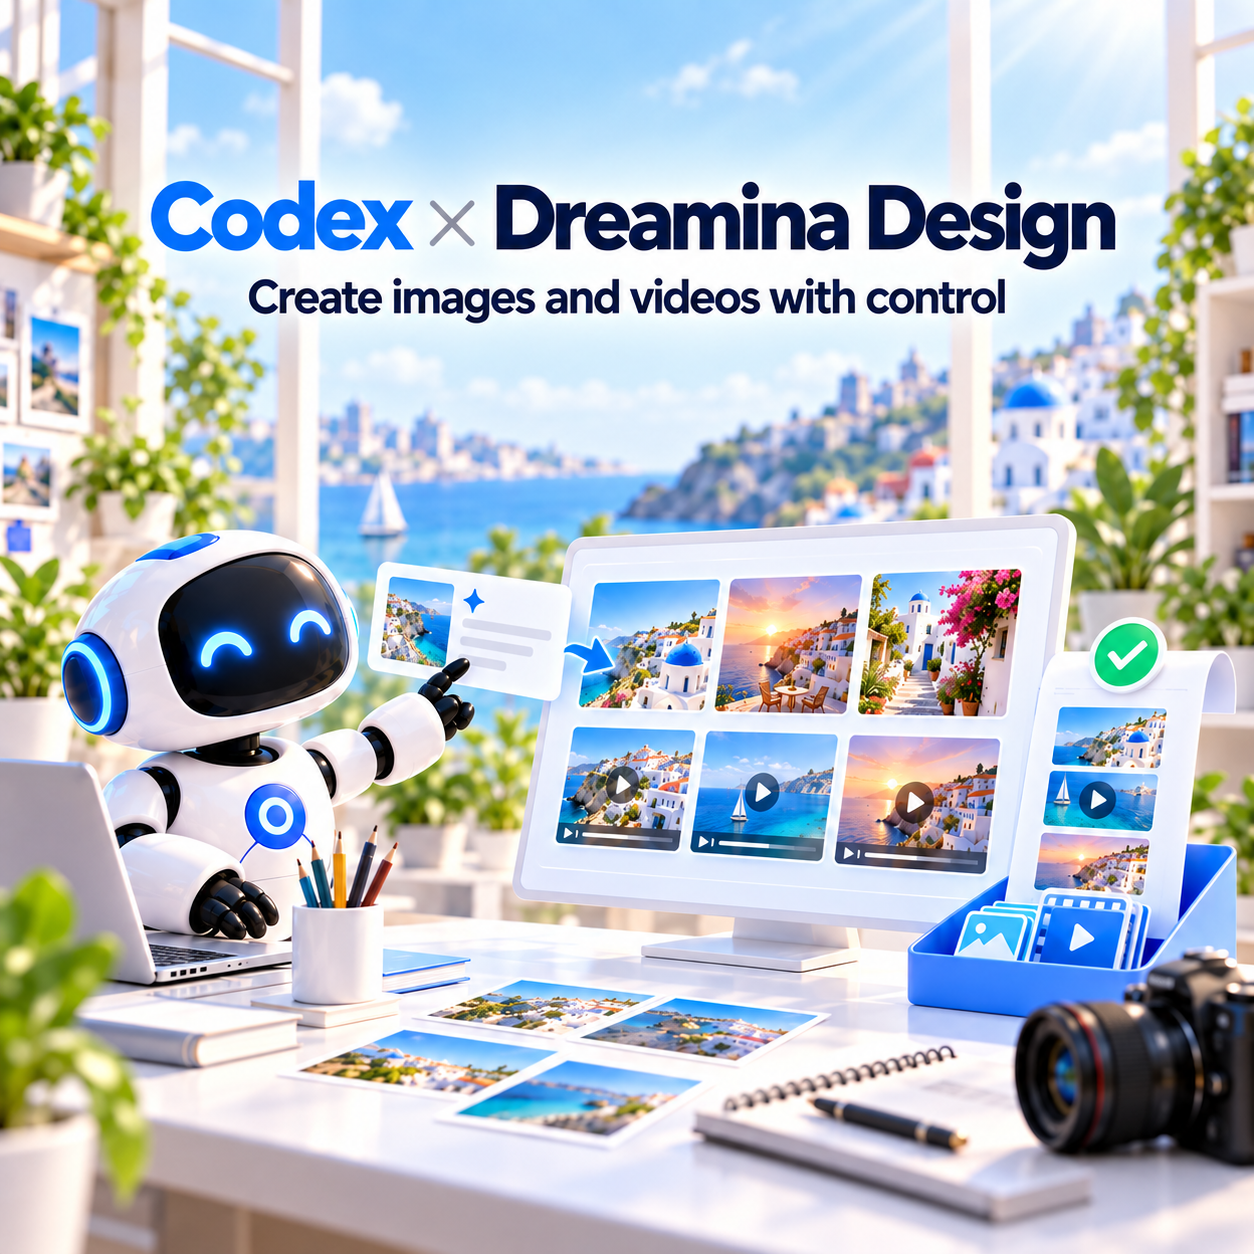
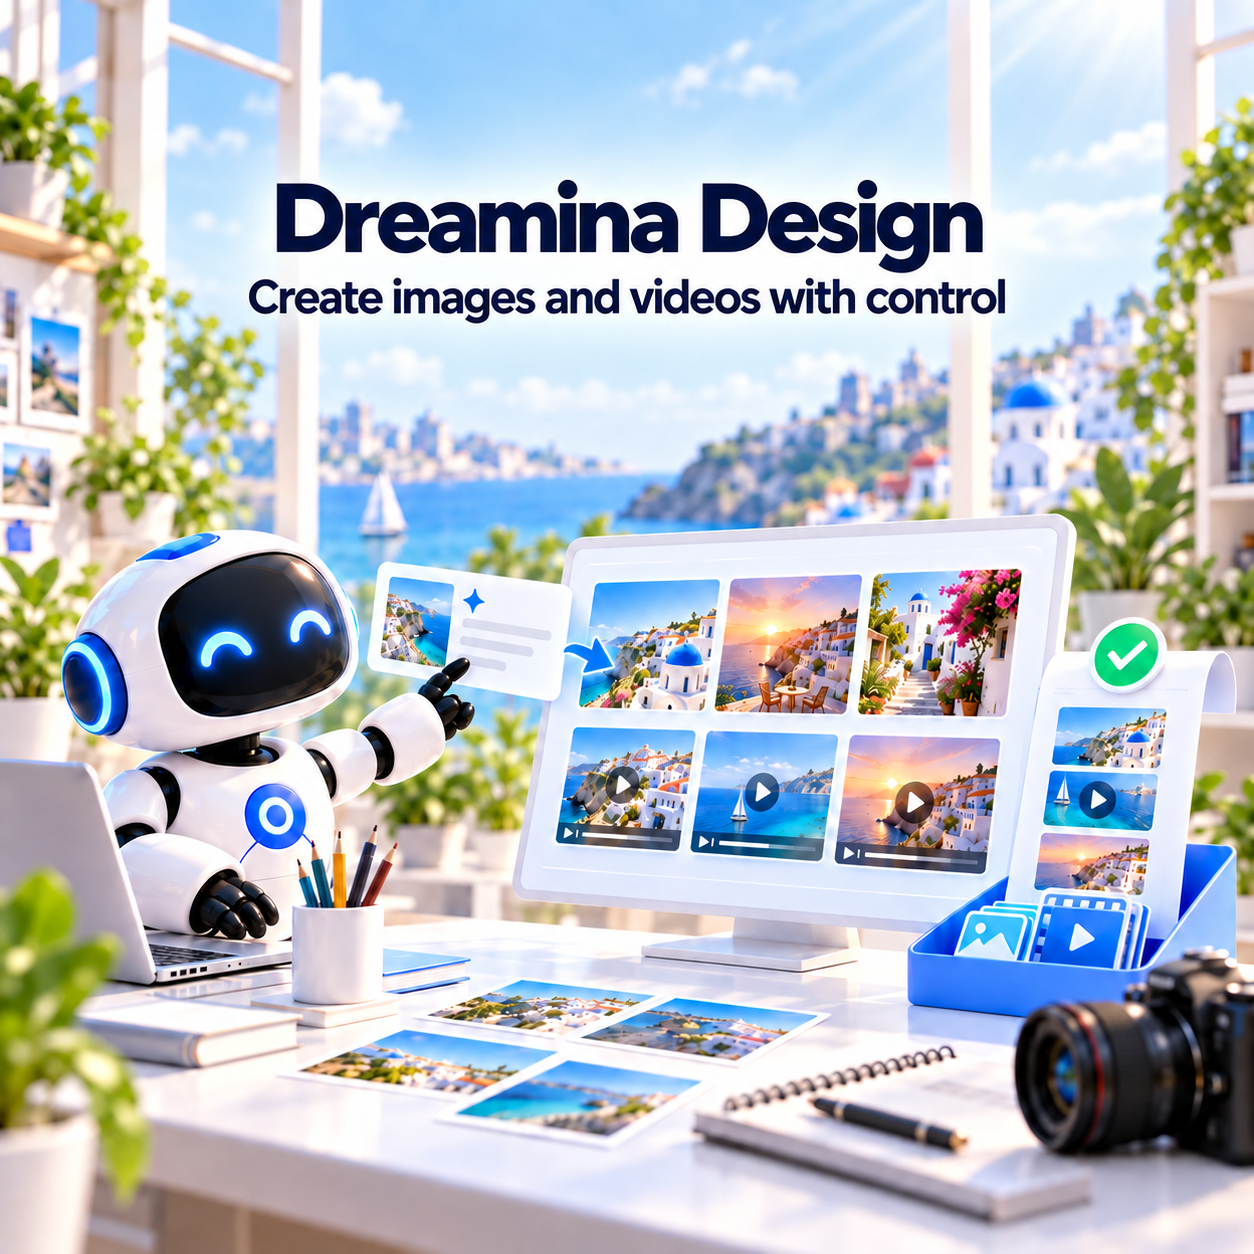
fix: 统一跨宿主公开品牌

diff --git a/tests/test_distribution.py b/tests/test_distribution.py
@@ -32,7 +32,7 @@ class DistributionTests(unittest.TestCase):
     def test_manifest_and_marketplace(self) -> None:
         manifest = load_json(".codex-plugin/plugin.json")
         self.assertEqual(manifest["name"], PLUGIN_ID)
-        self.assertEqual(manifest["version"].split("+", 1)[0], "0.4.3")
+        self.assertEqual(manifest["version"].split("+", 1)[0], "0.4.4")
         lock = load_json("skills.lock.json")
         dreamina_source = next(
             source for source in lock["sources"] if source["package"] == "dreamina-skills"
@@ -59,7 +59,7 @@ class DistributionTests(unittest.TestCase):
         marketplace = load_json(".agents/plugins/marketplace.json")
         entries = [entry for entry in marketplace["plugins"] if entry["name"] == PLUGIN_ID]
         self.assertEqual(len(entries), 1)
-        self.assertEqual(entries[0]["source"], {"source": "url", "url": REPOSITORY + ".git", "ref": "v0.4.3"})
+        self.assertEqual(entries[0]["source"], {"source": "url", "url": REPOSITORY + ".git", "ref": "v0.4.4"})
         self.assertEqual(entries[0]["policy"], {"installation": "AVAILABLE", "authentication": "ON_USE"})
 
     def test_mcp_python_launcher_is_path_portable(self) -> None:

diff --git a/tests/test_cross_host_naming.py b/tests/test_cross_host_naming.py
@@ -5,7 +5,15 @@ import unittest
 
 
 ROOT = Path(__file__).resolve().parents[1]
-BANNED_PUBLIC_NAMES = ("codex" + "-dreamina-design", "codex" + " Dreamina Design", "codex" + "-Dreamina-Design", "codex" + "-dreamina-3d", "codex" + "-blender", "codex" + "-maya",)
+BANNED_PUBLIC_NAMES = (
+    "codex" + "-dreamina-design",
+    "codex" + " Dreamina Design",
+    "codex" + "-Dreamina-Design",
+    "Codex" + " × Dreamina Design",
+    "codex" + "-dreamina-3d",
+    "codex" + "-blender",
+    "codex" + "-maya",
+)
 TEXT_SUFFIXES = {".md", ".json", ".py", ".mjs", ".js", ".toml", ".yaml", ".yml", ".svg"}
 EXCLUDED_PARTS = {".git", ".mimosa", ".worktrees", ".superpowers", "artifacts", "openspec", "superpowers", "verification", "__pycache__"}
 

diff --git a/tests/test_contracts.py b/tests/test_contracts.py
@@ -78,7 +78,7 @@ class PluginIdentityTests(unittest.TestCase):
     def test_manifest_identity_is_dreamina_design(self) -> None:
         manifest = load_json(MANIFEST)
         self.assertEqual(manifest["name"], "dreamina-design")
-        self.assertEqual(manifest["version"].split("+", 1)[0], "0.4.3")
+        self.assertEqual(manifest["version"].split("+", 1)[0], "0.4.4")
         self.assertFalse(manifest.get("skills", "").endswith("/*"))
         self.assertTrue(manifest["skills"].endswith("/"))
 

diff --git a/README.md b/README.md
@@ -1,25 +1,25 @@
 # Dreamina Design Plugin
 
-![Codex × Dreamina Design — Create images and videos with control](assets/dreamina-design-hero.png)
+![Dreamina Design — Create images and videos with control](assets/dreamina-design-hero.png)
 
 <img src="assets/logo.png" alt="Dreamina Design logo" width="128">
 
-> Create Dreamina images and videos from Codex, with runtime CLI discovery, explicit approval for every paid call, and submissions you can resume by identifier.
+> Create Dreamina images and videos from your supported coding agent, with runtime CLI discovery, explicit approval for every paid call, and submissions you can resume by identifier.
 
-[![Version](https://img.shields.io/badge/version-0.4.3-blue)](https://github.com/full-aigc-plugins/dreamina-design-plugin/releases/tag/v0.4.3)
+[![Version](https://img.shields.io/badge/version-0.4.4-blue)](https://github.com/full-aigc-plugins/dreamina-design-plugin/releases/tag/v0.4.4)
 [![License](https://img.shields.io/badge/license-Apache--2.0-green)](LICENSE)
 
 [English](README.md) | [简体中文](README.zh-CN.md) · [Install](#installation) · [Quick start](#quick-start) · [MCP tools](#mcp-tools) · [Troubleshooting](#troubleshooting)
 
 ## Positioning
 
-`dreamina-design` exposes the official Dreamina CLI to Codex through a local stdio MCP server with 21 typed tools. Every paid call passes a server-side confirmation, every submission gets a stable `submit_id`, and every task is queried before it is ever resubmitted.
+`dreamina-design` exposes the official Dreamina CLI to supported coding-agent hosts through a local stdio MCP server with 21 typed tools. Every paid call passes a server-side confirmation, every submission gets a stable `submit_id`, and every task is queried before it is ever resubmitted.
 
 The plugin is a strict wrapper: the CLI owns authentication and the remote API, model parameters come from the live CLI schema, and no tool accepts arbitrary shell input.
 
 ### Who it is for
 
-- Designers and marketers who want image and video generation inside Codex without losing control of spend.
+- Designers and marketers who want image and video generation inside their coding agent without losing control of spend.
 - Engineers who need a typed, auditable MCP surface over a vendor CLI.
 - Reviewers who need an approval record and a resumable submission identity for every paid action.
 
@@ -56,7 +56,7 @@ Downloaded image or video artifact + operation receipt
 |---|---|
 | Plugin ID | `dreamina-design` |
 | Host | Codex CLI or ChatGPT desktop app |
-| Current version | `0.4.3` |
+| Current version | `0.4.4` |
 | Plugin manifest | `.codex-plugin/plugin.json` |
 | MCP configuration | `.mcp.json` — local stdio server |
 | Primary language | Python 3.13 |
@@ -121,7 +121,7 @@ flowchart LR
 | `scripts/trusted_cli.py` | Trust enrollment and protected storage of the CLI identity | CLI installation |
 | `scripts/native_approval.py` | The fail-closed confirmation dialog | Business rules |
 | `scripts/image_service.py`, `scripts/video_service.py`, `scripts/task_service.py` | Request construction, submission, and query | Catalog values |
-| `skills/` (17) | Routing and per-capability instructions for Codex | Runtime enforcement |
+| `skills/` (17) | Routing and per-capability instructions for supported hosts | Runtime enforcement |
 
 ## Compatibility
 
@@ -148,7 +148,7 @@ python3 scripts/validate_distribution_v7.py --require-runtime-gates
 ### From the plugin marketplace
 
 ```bash
-codex plugin marketplace add full-aigc-plugins/dreamina-design-plugin --ref v0.4.3
+codex plugin marketplace add full-aigc-plugins/dreamina-design-plugin --ref v0.4.4
 codex plugin add dreamina-design@partme-ai-dreamina-design
 ```
 

diff --git a/README.zh-CN.md b/README.zh-CN.md
@@ -1,25 +1,25 @@
 # Dreamina Design 插件
 
-![Codex × Dreamina Design — 可控地创作图片与视频](assets/dreamina-design-hero.png)
+![Dreamina Design——可控地创作图片与视频](assets/dreamina-design-hero.png)
 
 <img src="assets/logo.png" alt="Dreamina Design Logo" width="128">
 
-> 在 Codex 中创作 Dreamina 图片与视频：运行时发现 CLI 能力、每次付费调用都要明确批准、提交结果可凭标识续查。
+> 在受支持的编码智能体中创作 Dreamina 图片与视频：运行时发现 CLI 能力、每次付费调用都要明确批准、提交结果可凭标识续查。
 
-[![版本](https://img.shields.io/badge/version-0.4.3-blue)](https://github.com/full-aigc-plugins/dreamina-design-plugin/releases/tag/v0.4.3)
+[![版本](https://img.shields.io/badge/version-0.4.4-blue)](https://github.com/full-aigc-plugins/dreamina-design-plugin/releases/tag/v0.4.4)
 [![许可证](https://img.shields.io/badge/license-Apache--2.0-green)](LICENSE)
 
 [English](README.md) | [简体中文](README.zh-CN.md) · [安装](#安装) · [快速开始](#快速开始) · [MCP 工具](#mcp-工具) · [故障排查](#故障排查)
 
 ## 项目定位
 
-`dreamina-design` 通过一个本地 stdio MCP 服务器，把官方 Dreamina CLI 以 21 个带类型的工具暴露给 Codex。每次付费调用都要通过服务端确认，每次提交都会拿到稳定的 `submit_id`，每个任务在重新提交之前都必须先查询。
+`dreamina-design` 通过一个本地 stdio MCP 服务器，把官方 Dreamina CLI 以 21 个带类型的工具暴露给受支持宿主。每次付费调用都要通过服务端确认，每次提交都会拿到稳定的 `submit_id`，每个任务在重新提交之前都必须先查询。
 
 插件是严格包装：CLI 负责认证与远端 API，模型参数来自实时 CLI schema，任何工具都不接受任意 shell 输入。
 
 ### 适合谁
 
-- 希望在 Codex 里出图出片、同时又不想失去花费控制权的设计师与市场人员。
+- 希望在编码智能体里出图出片、同时又不想失去花费控制权的设计师与市场人员。
 - 需要在厂商 CLI 之上获得带类型、可审计 MCP 面的工程师。
 - 需要为每次付费动作拿到批准记录与可续查提交标识的审阅者。
 
@@ -56,7 +56,7 @@
 |---|---|
 | 插件 ID | `dreamina-design` |
 | 宿主 | Codex CLI 或 ChatGPT 桌面应用 |
-| 当前版本 | `0.4.3` |
+| 当前版本 | `0.4.4` |
 | 插件清单 | `.codex-plugin/plugin.json` |
 | MCP 配置 | `.mcp.json`——本地 stdio 服务器 |
 | 主要语言 | Python 3.13 |
@@ -148,7 +148,7 @@ python3 scripts/validate_distribution_v7.py --require-runtime-gates
 ### 从插件市场安装
 
 ```bash
-codex plugin marketplace add full-aigc-plugins/dreamina-design-plugin --ref v0.4.3
+codex plugin marketplace add full-aigc-plugins/dreamina-design-plugin --ref v0.4.4
 codex plugin add dreamina-design@partme-ai-dreamina-design
 ```
 

diff --git a/PRIVACY.md b/PRIVACY.md
@@ -1,8 +1,7 @@
 # Privacy
 
-Dreamina Design is a local Codex plugin foundation. It does not include telemetry, advertising, or a hosted data service.
+Dreamina Design is a local, cross-host plugin foundation. It does not include telemetry, advertising, or a hosted data service.
 
 Future capabilities may read user-selected project files or invoke locally installed applications and CLIs. They must keep access within the user-approved scope, must not persist credentials in this repository, and must document any external data transfer before release.
 
 Generated previews, receipts, logs, and downloaded artifacts remain under paths selected by the user. Users should review third-party product privacy terms before enabling integrations.
-

diff --git a/docs/Dreamina-Design-Plugin-Architecture.md b/docs/Dreamina-Design-Plugin-Architecture.md
@@ -193,7 +193,7 @@ python3 scripts/unlock_runtime_gates.py status
 
 | Aspect | Position |
 |---|---|
-| Distribution | Cross-host marketplace entry pointing at this repository, pinned to immutable `v0.4.3` |
+| Distribution | Cross-host marketplace entry pointing at this repository, pinned to immutable `v0.4.4` |
 | Python | 3.13 |
 | CLI | Installed from the official installer and enrolled through native trust |
 | Skill topology | `dreamina-skills` remains the reusable fact source; this plugin packages byte-verified Skill trees pinned by `skills/.upstream-commit` |

diff --git a/docs/Dreamina-Design-Plugin-Architecture.zh_CN.md b/docs/Dreamina-Design-Plugin-Architecture.zh_CN.md
@@ -193,7 +193,7 @@ python3 scripts/unlock_runtime_gates.py status
 
 | 方面 | 立场 |
 |---|---|
-| 分发 | 指向本仓库、固定到不可变 `v0.4.3` 的跨宿主 marketplace 条目 |
+| 分发 | 指向本仓库、固定到不可变 `v0.4.4` 的跨宿主 marketplace 条目 |
 | Python | 3.13 |
 | CLI | 从官方安装器安装，并通过原生信任登记 |
 | Skill 拓扑 | `dreamina-skills` 仍是可复用事实源；本插件按 `skills/.upstream-commit` 打包逐字节校验的 Skill 树 |
